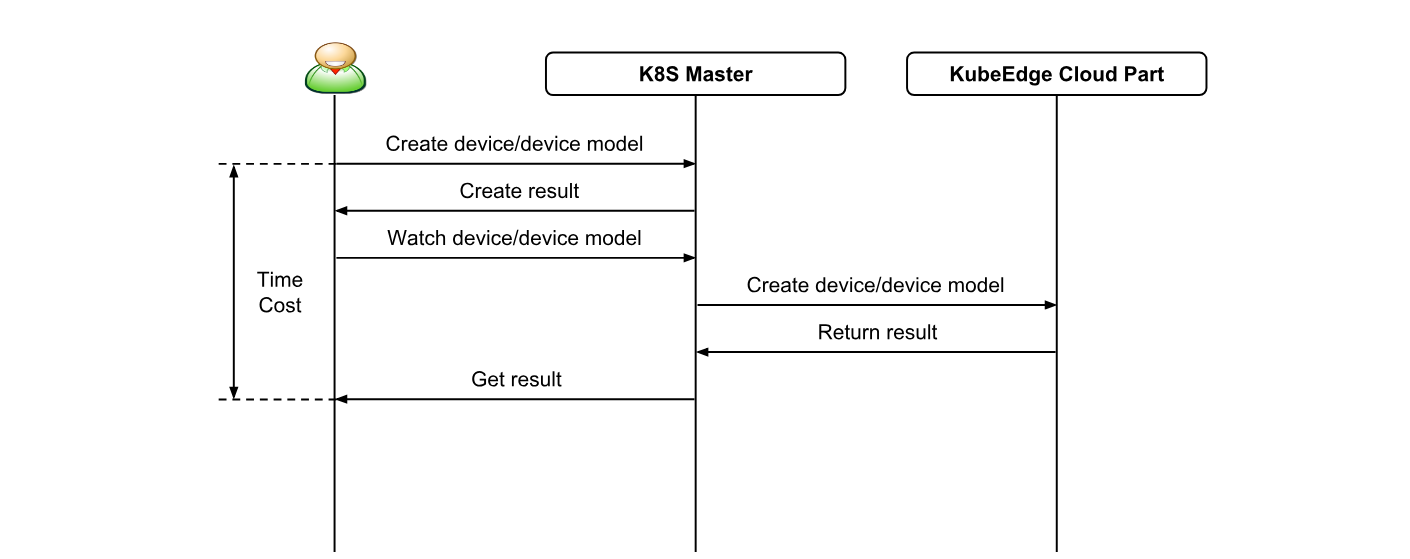
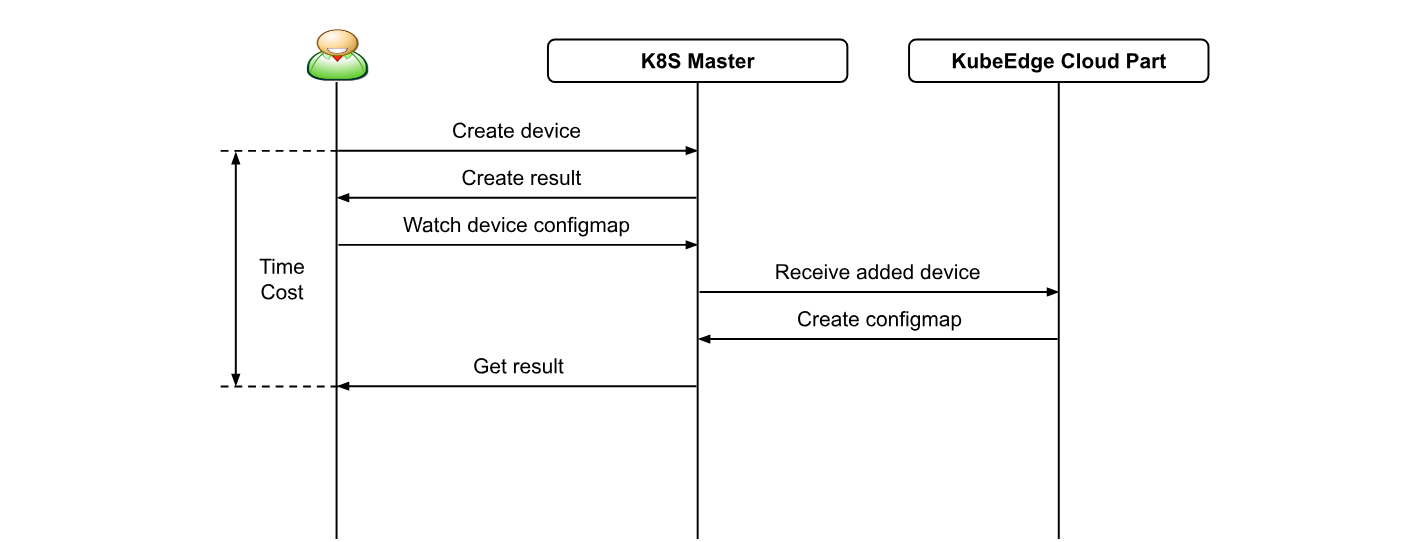
create device graph update

diff --git a/docs/proposals/perf.md b/docs/proposals/perf.md
@@ -125,7 +125,7 @@ Test Cases:
 
   Edge Nodes numbers are one of `[1, 10, 20, 50, 100, 200]`.
 
-### 2. Create Device/Device Model from Cloud
+### 2. Create Device from Cloud
 <img src="../images/perf/perf-create-device.png">
 
 This scenario is expected to measure the northbound API of KubeEdge.
